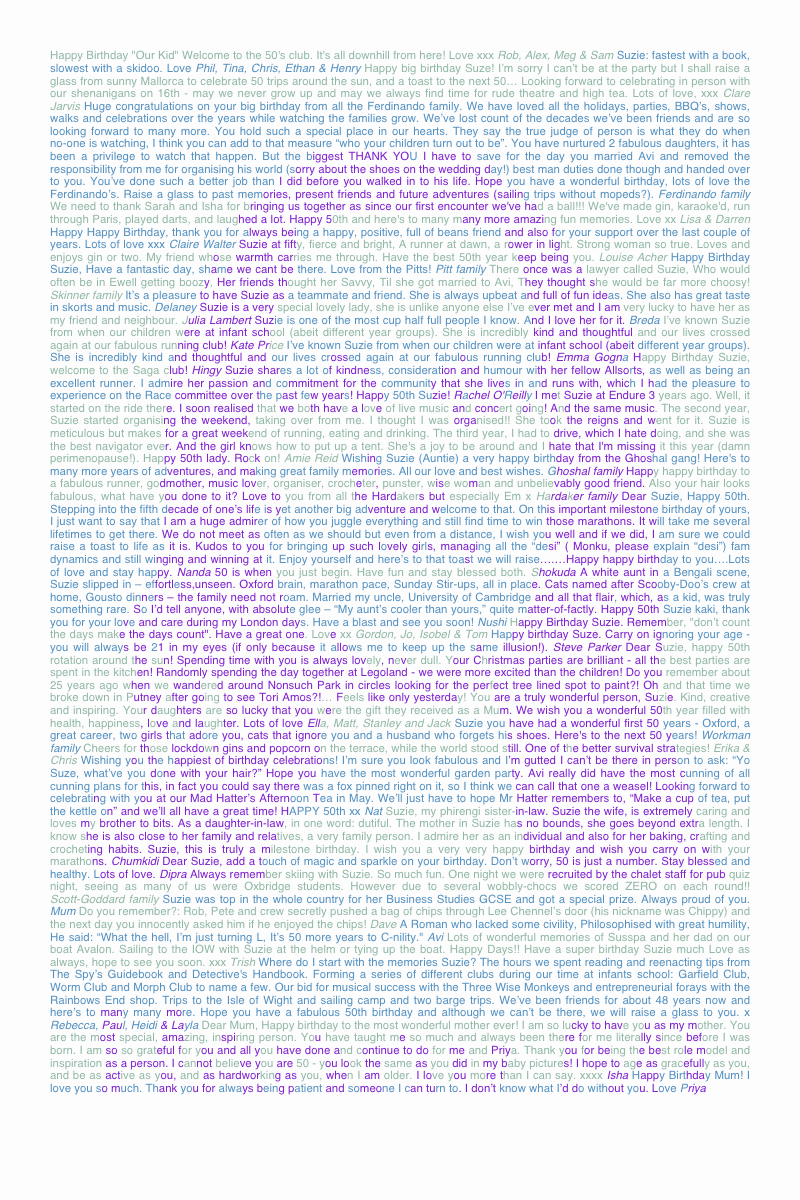
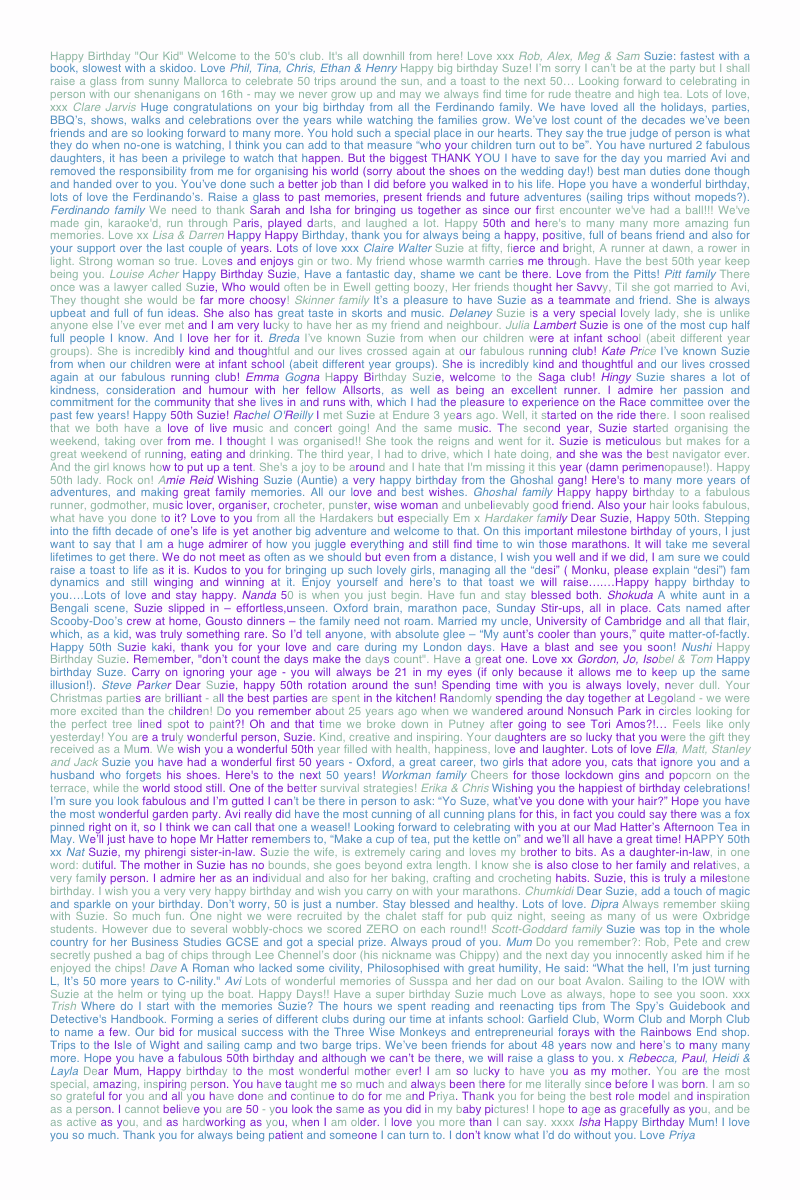
fix: shift bottom text up by bounding box descent to prevent cutoff

diff --git a/frontend/word-art-generator/src/components/WordArtCanvas.tsx b/frontend/word-art-generator/src/components/WordArtCanvas.tsx
@@ -306,6 +306,13 @@ export const WordArtCanvas = forwardRef<WordArtCanvasRef, WordArtCanvasProps>(
             cSize -= 5;
             maskCtx.font = `900 ${cSize}px ${CALLIGRAM_FONT_FAMILY}`;
           }
+          
+          if (baseline === 'bottom') {
+            const metrics = maskCtx.measureText(text);
+            const descent = metrics.actualBoundingBoxDescent || (cSize * 0.25);
+            yPos -= descent;
+          }
+          
           maskCtx.fillText(text, CANVAS_WIDTH / 2, yPos);
         };
 
